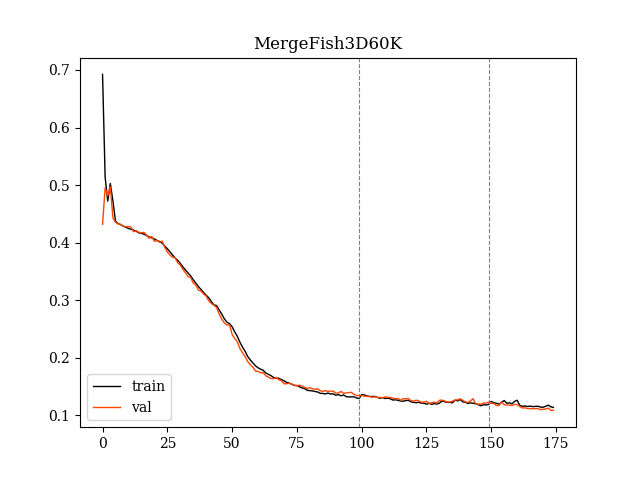
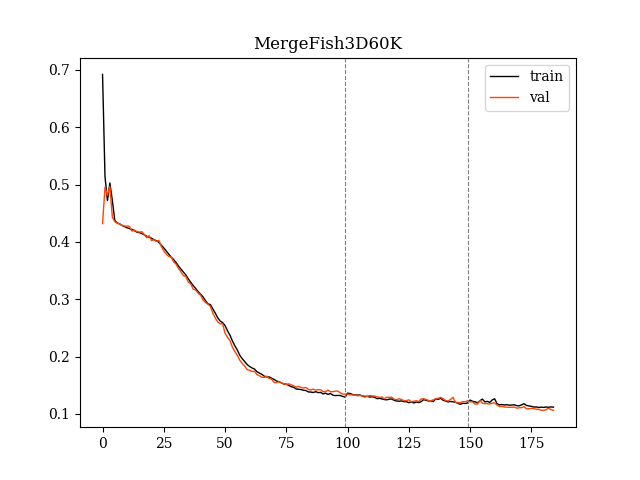
stuff idk dont remember

diff --git a/volume/get_sep_losses.py b/volume/get_sep_losses.py
@@ -46,13 +46,13 @@ def get_stuff(model, criterion, device, valloader) -> dict:
             output = model(X)
             sep_losses = criterion(output, y)
 
-            loclosses[i] = sep_losses['loss_loc']
-            dimlosses[i] = sep_losses['loss_dim']
-            rotlosses[i] = sep_losses['loss_rot']
+            loclosses[i] = sep_losses['loss_loc'].cpu().item()
+            dimlosses[i] = sep_losses['loss_dim'].cpu().item()
+            rotlosses[i] = sep_losses['loss_rot'].cpu().item()
 
-    print(loclosses.mean())
-    print(dimlosses.mean())
-    print(rotlosses.mean())
+    print(loclosses.mean(), loclosses.std())
+    print(dimlosses.mean(), dimlosses.std())
+    print(rotlosses.mean(), rotlosses.std())
     
 
 if __name__ == '__main__':
@@ -76,7 +76,8 @@ if __name__ == '__main__':
     n_data = pd.read_sql_query(f'SELECT COUNT(DISTINCT(imgnr)) FROM {TABLE}', db_con).values[0][0]
     print(n_data)
 
-    VAL_RANGE = (0,1000)
+    # VAL_RANGE = (0,1000)
+    VAL_RANGE = (1000,2000)
     # VAL_RANGE = (0,64)
 
     print(f"VAL_RANGE: {VAL_RANGE}")
@@ -95,7 +96,7 @@ if __name__ == '__main__':
     context = {
         'api':fishdetr3d_regular,
         'name':'regular',
-        'weightdir':"fish_statedicts/weights_2021-05-30/trainsession_2021-05-30T15h15m21s/detr_statedicts_epoch8_train0.1143_val0.1099.pth"
+        'weightdir':"fish_statedicts/weights_2021-05-31/trainsession_2021-05-31T16h26m22s/detr_statedicts_epoch10_train0.1116_val0.1060.pth"
     }
 
     api = context['api']
@@ -121,6 +122,12 @@ if __name__ == '__main__':
 
     get_stuff(model, criterion, device, valloader)
 
-    
 
-    
+    # 0.0028483110312372446                                                                               
+    # 0.004172523012384772
+    # 0.03850884599983692
+
+    # XTest
+    # 0.0030690934965386988 0.001118043372348415
+    # 0.004454518537037075 0.0018166043194410208
+    # 0.0376763304322958 0.004623436958799256

diff --git a/volume/train_fishdetr3d.py b/volume/train_fishdetr3d.py
@@ -263,9 +263,9 @@ if __name__ == '__main__':
 
     modelpath = os.path.join(
         WEIGHTS_DIR,
-        "weights_2021-05-30/",
-        "trainsession_2021-05-30T15h15m21s",
-        "detr_statedicts_epoch12_train0.1146_val0.1086.pth"
+        "weights_2021-05-31/",
+        "trainsession_2021-05-31T16h26m22s",
+        "last_epoch.pth"
     )
 
     db_con = sqlite3.connect(f'file:{os.path.join(DATADIR_TRAIN,"bboxes.db")}?mode=ro', uri=True)
@@ -318,11 +318,11 @@ if __name__ == '__main__':
     criterion = SetCriterion(6, matcher, weight_dict, eos_coef = 0.5, losses=losses)
     criterion = criterion.to(device)
 
-    optimizer.load_state_dict(loaded_weights['optimizer'])
-    criterion.load_state_dict(loaded_weights['criterion'])
-    # optimizer.param_groups[0]['lr'] = 1e-6
-    # optimizer.param_groups[0]['weight_decay'] = 1e-8
-    print('Optimizer and criterion successfully loaded with stored buffers')
+    # optimizer.load_state_dict(loaded_weights['optimizer'])
+    # criterion.load_state_dict(loaded_weights['criterion'])
+    optimizer.param_groups[0]['lr'] = 9e-7
+    optimizer.param_groups[0]['weight_decay'] = 1e-8
+    # print('Optimizer and criterion successfully loaded with stored buffers')
 
     # Will crash if I don't do this
     del loaded_weights

diff --git a/volume/getpreds.py b/volume/getpreds.py
@@ -82,7 +82,8 @@ if __name__ == '__main__':
     n_data = pd.read_sql_query(f'SELECT COUNT(DISTINCT(imgnr)) FROM {TABLE}', db_con).values[0][0]
     print(n_data)
 
-    VAL_RANGE = (0,1000)
+    # VAL_RANGE = (0,1000)
+    VAL_RANGE = (1000, 2000)
 
     print(f"VAL_RANGE: {VAL_RANGE}")
     valgen = Torch3DDataset(DATASET_DIR, TABLE, 1, shuffle=False, imgnrs=range(*VAL_RANGE))
@@ -102,8 +103,8 @@ if __name__ == '__main__':
 
     models_n_stuff = [
         {'api':fishdetr3d_regular,
-         'name':'regular60k',
-         'weightdir':"fish_statedicts/weights_2021-05-31/trainsession_2021-05-31T16h26m22s/detr_statedicts_epoch3_train0.1120_val0.1078.pth"},
+         'name':'regular60k_test',
+         'weightdir':"fish_statedicts/weights_2021-05-31/trainsession_2021-05-31T16h26m22s/detr_statedicts_epoch10_train0.1116_val0.1060.pth"},
         
         # {'api':fishdetr3d_regular,
         #  'name':'regular25k',

diff --git a/volume/valscience.py b/volume/valscience.py
@@ -1,0 +1,26 @@
+import numpy as np 
+import pandas as pd 
+
+
+
+
+
+if __name__ == '__main__':
+    df = pd.read_csv('mapdir/nogit_val_labels.csv')
+    print(df.min())
+    print(df.max())
+    print(abs(df.max() - df.min()))
+
+    # Xtest, diff
+    # imgnr     999.000
+    # class_      5.000
+    # x           1.999
+    # y           2.000
+    # z           1.997
+    # w           0.831
+    # l           3.315
+    # h           1.066
+    # rx          0.999
+    # ry          0.999
+    # rz          1.000
+    # dtype: float64

diff --git a/volume/trainscience.py b/volume/trainscience.py
@@ -64,6 +64,7 @@ def lossplot_mergefish60k(name_n_paths: list):
         paths = stuff[1:]
         
         df = pd.concat((pd.read_csv(pathlib.Path(path) / "losses.csv") for path in paths))
+        print(len(df))
         # print(df.train.values)
         # exit()
         plt.plot(df.train.values, c='k', label='train', linewidth=1)
